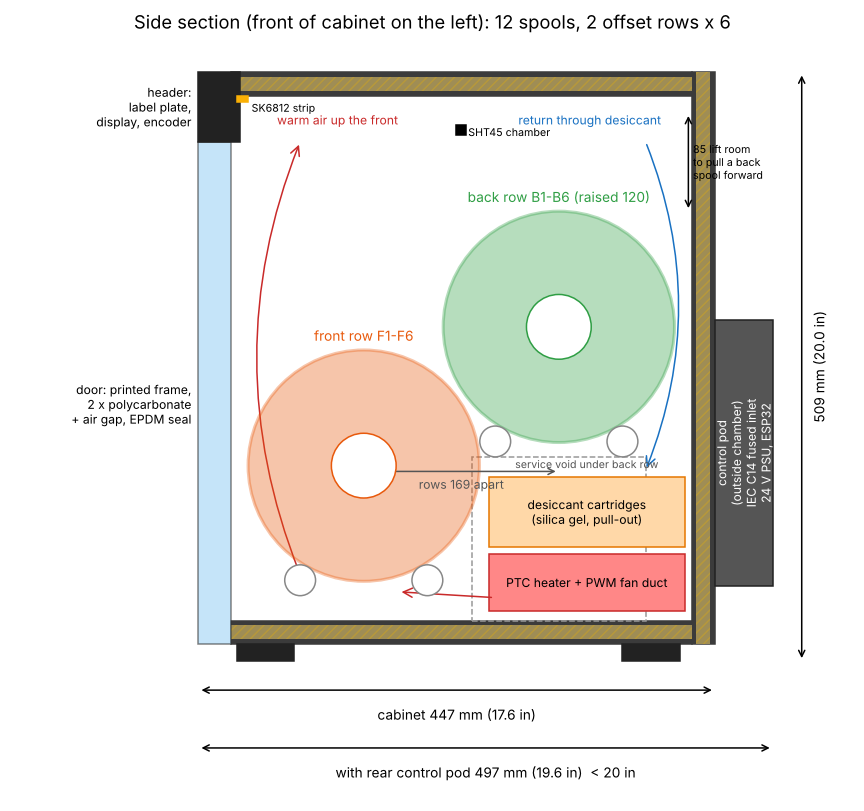
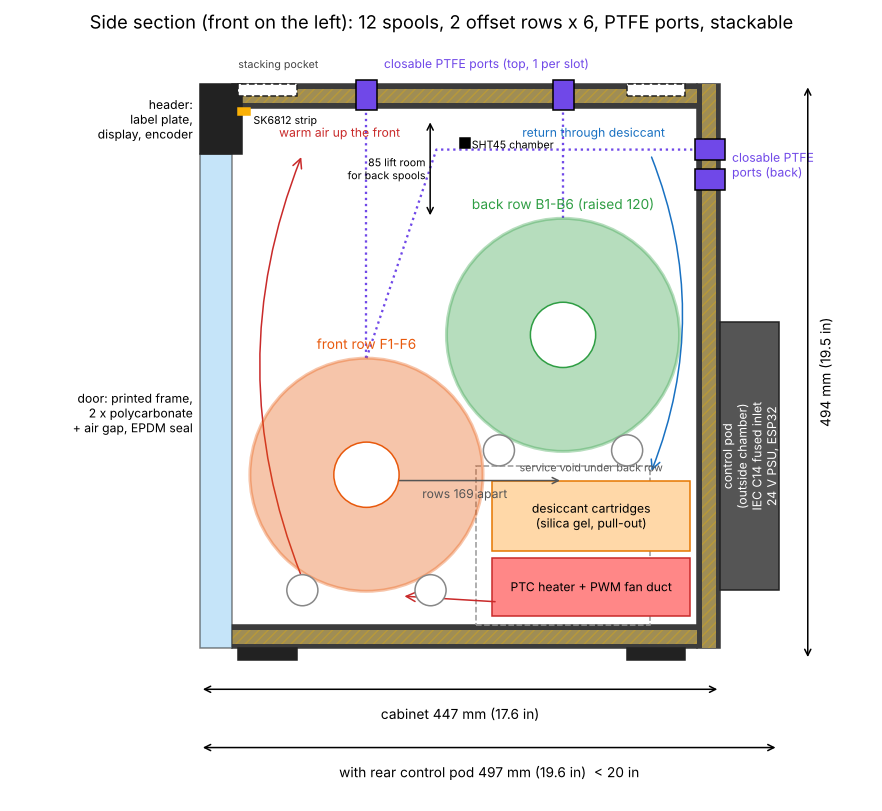
Filament dry cabinet spec v0.2: PTFE ports, stacking, 19.5 in height, ABS/ASA, 120 V
Claude-Session: https://claude.ai/code/session_01Fr6xhM7DESu9XfqMuZQkwi

Changed region(s): [[0.0938, 0.0, 0.9688, 0.9864], [0.5938, 0.3391, 0.6875, 0.4624]]

diff --git a/models/filament-dry-cabinet/source/draw.py b/models/filament-dry-cabinet/source/draw.py
@@ -56,13 +56,28 @@ ax.add_patch(FancyArrowPatch((60, 40), (60, IH-40), connectionstyle='arc3,rad=-0
 ax.add_patch(FancyArrowPatch((ID-40, IH-40), (ID-40, 130), connectionstyle='arc3,rad=-0.2', arrowstyle='->', mutation_scale=15, color='#1971c2'))
 ax.text(40, IH-25, 'warm air up the front', fontsize=8, color='#c92a2a')
 ax.text(ID-150, IH-25, 'return through desiccant', fontsize=8, color='#1971c2')
+# closable PTFE ports: top (one per slot) and back (above the control pod)
+PORT='#7048e8'
+for yp in (A['y_front'], A['y_back']):
+    ax.add_patch(Rectangle((yp-9, IH-2), 18, T+6, facecolor=PORT, edgecolor='k', zorder=7))
+    ax.plot([yp, yp], [A['cf']+R if yp==A['y_front'] else A['cb']+R, IH-2], ls=':', color=PORT, lw=1.5)
+for zp in (IH-62, IH-36):
+    ax.add_patch(Rectangle((ID-2, zp-9), T+6, 18, facecolor=PORT, edgecolor='k', zorder=7))
+ax.plot([A['y_front'], A['y_front']+60, ID-2], [A['cf']+R, IH-36, IH-36], ls=':', color=PORT, lw=1.5)
+ax.text(A['y_front']+15, IH+T+14, 'closable PTFE ports (top, 1 per slot)', color=PORT, fontsize=8)
+ax.text(ID+T+10, IH-49, 'closable PTFE\nports (back)', color=PORT, fontsize=8, va='center')
+# stacking: pockets in the roof that take the next cabinet's feet
+for yy in (5, ID-60):
+    ax.add_patch(Rectangle((yy, IH+T-FEET), 50, FEET, facecolor='white', edgecolor='#222', ls='--'))
+ax.text(5, IH+T+14, 'stacking pocket', fontsize=7, color='#444')
 # LED strip
 ax.add_patch(Rectangle((5, IH-6), 10, 6, color='#fab005', zorder=6)); ax.text(18, IH-14, 'SK6812 strip', fontsize=7)
 # sensors
 ax.plot([ID/2], [IH-30], 'ks'); ax.text(ID/2+6, IH-35, 'SHT45 chamber', fontsize=7)
 # lift clearance
-ax.annotate('', xy=(A['y_back']+R+12, A['top_back']+A['lift']), xytext=(A['y_back']+R+12, A['top_back']), arrowprops=dict(arrowstyle='<->'))
-ax.text(A['y_back']+R+16, A['top_back']+A['lift']/2, f"{A['lift']:.0f} lift room\nto pull a back\nspool forward", fontsize=7, va='center')
+xl = A['y_back'] - R - 14
+ax.annotate('', xy=(xl, A['top_back']+A['lift']), xytext=(xl, A['top_back']), arrowprops=dict(arrowstyle='<->'))
+ax.text(xl-4, A['top_back']+A['lift']/2, f"{A['lift']:.0f} lift room\nfor back spools", fontsize=7, va='center', ha='right')
 # dimensions
 def dim(p0, p1, txt, off, horiz=True):
     if horiz:
@@ -76,9 +91,9 @@ dim(-DOOR, ID+T+POD, f"with rear control pod {A['ed']+POD:.0f} mm ({(A['ed']+POD
 dim(-T-FEET, IH+T, f"{A['eh']:.0f} mm ({A['eh']/IN:.1f} in)", ID+T+POD+25, horiz=False)
 ax.annotate('', xy=(A['y_back'], A['cb']-R-25), xytext=(A['y_front'], A['cb']-R-25), arrowprops=dict(arrowstyle='<->', color='#555'))
 ax.text((A['y_front']+A['y_back'])/2, A['cb']-R-40, f"rows {A['d']:.0f} apart", ha='center', fontsize=8, color='#555')
-ax.set_xlim(-190, ID+T+POD+70); ax.set_ylim(-T-FEET-120, IH+T+30)
+ax.set_xlim(-190, ID+T+POD+80); ax.set_ylim(-T-FEET-120, IH+T+40)
 ax.set_aspect('equal'); ax.axis('off')
-ax.set_title('Side section (front of cabinet on the left): 12 spools, 2 offset rows x 6', fontsize=12)
+ax.set_title('Side section (front on the left): 12 spools, 2 offset rows x 6, PTFE ports, stackable', fontsize=12)
 plt.savefig('layout_side.png', dpi=110, bbox_inches='tight')
 
 # ---------------- front view ----------------

diff --git a/models/filament-dry-cabinet/source/layout.py b/models/filament-dry-cabinet/source/layout.py
@@ -14,7 +14,7 @@ C_ABOVE_RODS = math.sqrt((R + ROD_OD/2)**2 - (ROD_CC/2)**2)
 # shell
 WALL = 20.0                             # printed tile + 1/2 in XPS foam
 DOOR = 28.0                             # door frame with twin-wall polycarbonate
-FEET = 15.0
+FEET = 10.0                             # stacking feet (nest into the cabinet below)
 CLR = 15.0                              # clearance spool <-> wall/door
 
 def stadium(n_across, h_offset, lift_access=True):
@@ -22,13 +22,13 @@ def stadium(n_across, h_offset, lift_access=True):
     d = math.sqrt((SPOOL_D + SPOOL_CLR)**2 - h_offset**2) if h_offset < SPOOL_D + SPOOL_CLR else 0
     iw = n_across * PITCH + 2 * 10
     idepth = CLR + R + d + R + CLR
-    rod_z_front = 35.0                  # rod centre above floor
+    rod_z_front = 30.0                  # rod centre above floor
     cf = rod_z_front + C_ABOVE_RODS     # front spool centre
     cb = cf + h_offset
     top_back = cb + R
     top_front = cf + R
     lift = max(0.0, (top_front + 5) - (cb - R)) if lift_access else 0.0
-    ih = top_back + lift + 15
+    ih = top_back + lift + 10
     ew, ed, eh = iw + 2*WALL, idepth + WALL + DOOR, ih + 2*WALL + FEET
     return dict(n=2*n_across, iw=iw, idepth=idepth, ih=ih, ew=ew, ed=ed, eh=eh,
                 d=d, cf=cf, cb=cb, rod_front=rod_z_front, rod_back=rod_z_front+h_offset,

diff --git a/models/filament-dry-cabinet/DESIGN.md b/models/filament-dry-cabinet/DESIGN.md
@@ -1,6 +1,6 @@
-# Filament Dry Cabinet: Design Spec (v0.1)
+# Filament Dry Cabinet: Design Spec (v0.2)
 
-This spec is for review before any CAD. It sets the layout, construction, electronics, ESPHome control and the Spoolman slot scheme for **one cabinet**. You'll build **one cabinet per material family**: PLA, PETG, ABS/ASA, and so on.
+This spec is for review before any CAD. v0.2 includes your answers to the open questions (§10). It sets the layout, construction, electronics, ESPHome control and the Spoolman slot scheme for **one cabinet**. You'll build **one cabinet per material family**: PLA, PETG, ABS/ASA, and so on.
 
 ## 1. Requirements
 
@@ -12,15 +12,18 @@ This spec is for review before any CAD. It sets the layout, construction, electr
 | R4 | ESPHome (ESP32) with local controls and status | ESP32-S3, a **2.0 in TFT and rotary encoder** for setpoints, plus the HA API and a local web page (§6, §7) |
 | R5 | SK6812 LED lighting | **SK6812 RGBW** strip under the front header, 5 LEDs per slot, so it can **light up a single slot** (§6.4) |
 | R6 | Front label plate, and an index position for each spool that Spoolman can manage | Swappable **material label plate** in the header. **Slot IDs F1–F6 and B1–B6** on index collars and the door rail (§8). |
-| R7 | **≤ 20 in (508 mm) deep** for standard shelves | **447 mm (17.6 in)** cabinet, **497 mm (19.6 in)** with the rear control pod, using offset-height rows (§3) |
+| R7 | **≤ 20 in (508 mm) deep** for standard shelves, **≤ 20 in shelf spacing** | **447 mm (17.6 in)** cabinet, **497 mm (19.6 in)** with the rear control pod, using offset-height rows. **494 mm (19.5 in) tall.** (§3) |
 | R8 | IEC 320 C14 fused inlet | **Fused and switched C14 module** in the rear control pod (§6.1) |
 | R9 | About 12 spools | **12 × 1 kg spools** (200 mm across, up to 75 mm wide) |
+| R10 | PTFE feed ports that can be closed off, on the **top and back** | **12 top ports** (one per slot) and **12 back ports**, all using one plug-in **port module**: PTFE or sealed blank (§4.6) |
+| R11 | Stackable | Feet nest into **pockets in the cabinet below**, with optional side links (§4.7) |
+| R12 | 120 V mains only | Inlet, fuse and PSU are specified for 120 V (§6.1) |
 
 ## 2. Concept
 
 ![Concept](images/concept.jpg)
 
-## 3. Layout (recommended: one level, two offset rows of six)
+## 3. Layout (chosen: one level, two offset rows of six)
 
 ![Side section](images/layout_side.png)
 
@@ -28,9 +31,9 @@ This spec is for review before any CAD. It sets the layout, construction, electr
 
 **Spools roll on two PVC rods per row**, with their axles running side to side, so their faces point out the door like in the concept picture. Two rods 110 mm apart put a 200 mm spool's centre **99 mm above the rod centres**.
 
-**The back row is raised 120 mm.** This lets the two rows overlap in depth (centres 169 mm apart instead of 207 mm). The back spools show above the front ones, so you can read them through the door. It also leaves a **service void under the back row, about 184 × 142 × 500 mm**, which holds the heater, fan duct and desiccant cartridges without adding any height.
+**The back row is raised 120 mm.** This lets the two rows overlap in depth (centres 169 mm apart instead of 207 mm). The back spools show above the front ones, so you can read them through the door. It also leaves a **service void under the back row, about 184 × 142 × 500 mm**, which holds the heater, fan duct and desiccant cartridges without adding any height. In v0.2 the front rods sit 30 mm above the floor, so the void is 137 mm tall.
 
-**There's 85 mm of lift room above the back row**, so you can lift a back spool up and over the front spool to take it out. Dropping that lift room saves 85 mm of height (cabinet 424 mm / 16.7 in tall), but then you'd take out the front spool to reach the one behind it.
+**There's 85 mm of lift room above the back row**, so you can lift a back spool up and over the front spool to take it out. **Kept in v0.2**, since your shelves allow 20 in. Without it, the cabinet would be 409 mm / 16.1 in tall.
 
 ### Overall size (recommended layout A)
 
@@ -39,16 +42,17 @@ This spec is for review before any CAD. It sets the layout, construction, electr
 | Width | 540 | 21.3 |
 | Depth (cabinet) | 447 | 17.6 |
 | Depth with the rear control pod | 497 | **19.6 (< 20)** |
-| Height (with 15 mm feet) | 509 | 20.0 |
-| Interior (W × D × H) | 500 × 399 × 454 | 19.7 × 15.7 × 17.9 |
+| Height (with 10 mm stacking feet) | **494** | **19.5** |
+| Height per cabinet when stacked (feet nest into the pockets) | 484 | 19.1 |
+| Interior (W × D × H) | 500 × 399 × 444 | 19.7 × 15.7 × 17.5 |
 
 ### Layout options considered (all 12 spools)
 
 | Option | Arrangement | W × D × H (in) | Notes |
 |---|---|---|---|
-| **A (recommended)** | 1 level, 2 offset rows × 6 | **21.3 × 17.6 (19.6 with pod) × 20.0** | Uses the full shelf depth. Low enough to fit under typical shelf spacing. Dead space houses the heater and desiccant. |
-| B | 2 levels × (2 offset rows × 3) | 11.8 × 17.6 × 37.9 | Narrow but very tall. Won't fit between most shelves. |
-| C | 3 levels × 4, single row | 15.0 × 10.9 × 31.3 | Shallow and tall. Wastes half the shelf depth. |
+| **A (chosen)** | 1 level, 2 offset rows × 6 | **21.3 × 17.6 (19.6 with pod) × 19.5** | Uses the full shelf depth. Low enough to fit under typical shelf spacing. Dead space houses the heater and desiccant. |
+| B | 2 levels × (2 offset rows × 3) | 11.8 × 17.6 × 36.9 | Narrow but very tall. Won't fit between most shelves. |
+| C | 3 levels × 4, single row | 15.0 × 10.9 × 31.1 | Shallow and tall. Wastes half the shelf depth. |
 
 `source/layout.py` recalculates all of this. Change the spool size, rod size or offset and rerun it.
 
@@ -58,8 +62,8 @@ This spec is for review before any CAD. It sets the layout, construction, electr
 - **Walls are 20 mm thick:** a printed tile tray (2 mm skin plus edge ribs) holding **1/2 in XPS foam board** (hardware store), with the inside faced in **aluminium foil tape**. The foil works as a vapour barrier and reflects heat back in.
 - **Tiles are ≤ 330 × 330 mm** (350 mm bed). Each face is a 2 × 2 grid of tiles: sides, top, bottom and back, about 20 tiles in all, plus a front frame and corner posts.
 - **Tiles join** with tongue-and-groove edges, **M4 heat-set inserts and bolts**, and foam tape in the seams. You could swap a side tile later for one with a pass-through port or a window.
-- **Material:** **ASA** for everything near the heater and for cabinets that run hotter than 50 °C. PETG is fine for the shell of a PLA or PETG cabinet. **No PLA in the structure**, since it softens at about 55 °C.
-- **Feet:** printed, 15 mm tall, with recesses so cabinets can **stack** (to be confirmed, §10).
+- **Material: ABS or ASA for every printed part** (your choice, v0.2). That gives every cabinet the same parts and lets any cabinet run up to 60 °C. ASA is better for parts that get sunlight or UV.
+- **Feet:** printed, 10 mm tall, and they **nest into pockets in the top of the cabinet below** (§4.7).
 
 ### 4.2 Door
 - A printed frame with **two panes of clear polycarbonate** (hardware-store "Lexan", 2–2.5 mm) and a 6 mm air gap. That insulates about twice as well as one pane, and stops condensation on the glass.
@@ -81,13 +85,38 @@ This spec is for review before any CAD. It sets the layout, construction, electr
 - Wires pass into the chamber through a sealed gland.
 - A removable back cover gives access, with ventilation slots for the PSU.
 
+### 4.6 Closable PTFE ports (top and back)
+
+**One port design is used everywhere.** Each tile gets a threaded **port socket**, a printed sleeve through the wall. A plug-in **port module** screws into the socket, sealed with an **O-ring**. The module comes in three versions:
+
+| Module | Use |
+|---|---|
+| **PTFE pass-through** | **PC4-M10 push-fit coupler** on the outside for the 4 mm OD PTFE tube to the printer. Inside, a short PTFE guide tube runs toward the spool. |
+| **Blank plug** | Seals any unused socket. It's the default in every socket. |
+| **Feed cap** | Push-fit cap over the coupler for when the tube is disconnected but you want to keep the PTFE routing |
+
+**Port positions:**
+- **Top: 12 ports, one per slot.** They sit straight above each spool, at the front-row and back-row lines (§3 drawing). Filament comes off the top of the spool straight up.
+- **Back: 12 ports in two staggered rows**, high on the back wall above the control pod. Guide tubes inside run up over the back row and down to each slot. **Use the back ports when cabinets are stacked**, since the cabinet above covers the top ports.
+
+**Seal:** an O-ring on each module plus foam tape around the socket sleeve, so a closed port seals as well as the rest of the wall.
+
+**Socket size:** about M20 × 2 printed thread, with a 16 × 2 mm O-ring. This will be finalised in CAD after a fit test with a printed coupon, the same approach used for the dragon egg socket.
+
+### 4.7 Stacking
+
+- **Feet nest into pockets:** each cabinet has four 10 mm feet that drop into matching **pockets in the roof** of the cabinet below. That keeps them aligned and stops them sliding.
+- **Optional side links:** printed **link plates** bolt across the seam on each side, so a stack can't tip.
+- **Limits:** stacks of **2, or 3 at most**. A loaded cabinet weighs roughly 12 kg of spools plus the cabinet itself, so the roof tiles get extra ribs around the pockets.
+- **Power and ports:** every cabinet has its own inlet and controller. Stacking doesn't block the rear pods or the back ports.
+
 ## 5. Drying system
 
 **How it works:** warm air holds the same amount of water at a much lower relative humidity, and warm plastic gives up moisture. The heater warms the chamber gently, and the **fan pulls chamber air down through the desiccant cartridges and over the PTC heater**. Warm, dry air leaves along the floor at the front, rises up the inside of the door, which also keeps the door glass clear, and returns down the back through the desiccant. Moisture driven out of the spools ends up in the silica gel, not back in the filament.
 
 | Item | Spec |
 |---|---|
-| Heater | **24 V PTC element with fins**, 100 W (PLA/PETG) or 150 W (ABS/ASA/nylon), in a printed **ASA** duct on standoffs |
+| Heater | **24 V PTC element with fins**, 100 W (PLA/PETG/TPU cabinets) or 150 W (ABS/ASA/nylon), in a printed **ABS/ASA** duct on standoffs |
 | Fan | 24 V **4-pin PWM** fan (60–80 mm) with tach, so the firmware can tell if it stops |
 | Desiccant | **2 pull-out cartridges, about 300–400 g of orange indicating silica gel each**. They sit in the return-air path in the service void. |
 | Recharging | Empty the gel into a metal tray and dry it in an oven at the temperature on the gel's packaging. **The printed cartridges can't go in the oven.** Firmware counts the days since the last recharge, and watches for absolute humidity creeping up. |
@@ -99,9 +128,9 @@ This spec is for review before any CAD. It sets the layout, construction, electr
 |---|---|---|---|
 | PLA / PLA+ / silk | 40 °C | ≤ 30 % | Never above 45 °C |
 | PETG / PCTG | 50 °C | ≤ 20 % | |
-| ABS / ASA | 55 °C | ≤ 20 % | ASA shell required |
+| ABS / ASA | 55 °C | ≤ 20 % | |
 | TPU | 40 °C | ≤ 20 % | |
-| Nylon / PC / CF blends | 60 °C | ≤ 10–15 % | ASA shell, 150 W heater, extra desiccant |
+| Nylon / PC / CF blends | 60 °C | ≤ 10–15 % | 150 W heater, extra desiccant |
 
 There's also a **"Dry" mode** that runs a timed cycle at the cabinet's maximum temperature, such as 6 h at 50 °C for PETG. It's a top-up, not a replacement for a proper filament dryer.
 
@@ -110,7 +139,8 @@ There's also a **"Dry" mode** that runs a timed cycle at the cabinet's maximum t
 ![Electrical block diagram](images/wiring.png)
 
 ### 6.1 Power
-- **Inlet:** IEC 320 C14 panel module with a **fuse holder and switch** (5 × 20 mm, **3.15 A T** slow-blow at 120 V). Earth (PE) goes to the PSU's FG terminal and to any metal parts. Use 18 AWG wire with ferrules, plus strain relief. The module snaps into a printed cutout, sized from the datasheet of the exact part you buy.
+- **Mains: 120 V only.**
+- **Inlet:** a UL-recognised IEC 320 C14 panel module with a **fuse holder and switch** (5 × 20 mm, **3.15 A T** slow-blow, 250 V rated). Earth (PE) goes to the PSU's FG terminal and to any metal parts. Use 18 AWG wire with ferrules, plus strain relief. The module snaps into a printed cutout, sized from the datasheet of the exact part you buy.
 - **PSU:** **Mean Well LRS-200-24** (24 V, 8.8 A) in its enclosed metal case. The LRS-150-24 (6.5 A) is enough if every cabinet uses the 100 W heater.
 - **5 V:** a 24 → 5 V buck converter (3–5 A) for the LEDs, display and ESP32. The LED feed has its own 3 A fuse.
 
@@ -188,6 +218,8 @@ There's also a **"Dry" mode** that runs a timed cycle at the cabinet's maximum t
 
 **Hardware store**
 - 3/4 in Sch 40 PVC pipe, about 2 m (4 rods × 498 mm)
+- 24 × PC4-M10 push-fit couplers (only as many as you'll use) + 4 mm OD PTFE tube
+- 16 × 2 mm nitrile O-rings (one per port module)
 - 1/2 in XPS foam board (one 2 × 4 ft sheet covers it)
 - Clear polycarbonate sheet, 2–2.5 mm, 2 panes about 510 × 400 mm
 - EPDM foam weatherstrip, about 2 m
@@ -210,24 +242,29 @@ There's also a **"Dry" mode** that runs a timed cycle at the cabinet's maximum t
 
 **Consumables**
 - Orange indicating silica gel, about 1 kg
-- ASA filament for the duct, pod and hot parts, and PETG or ASA for the tiles
+- ABS or ASA filament for all printed parts
 
-## 10. Open questions for you
+## 10. Decisions (v0.2)
 
-1. **Layout A** (21.3 W × 19.6 D × 20.0 H in): does it fit your shelves? What's the **clear height** between shelves?
-2. **Lift room:** keep the 85 mm so you can lift back spools out (20.0 in tall), or drop it to 16.7 in tall and remove the front spool first?
-3. **PTFE pass-through ports** in a side tile, so a printer can feed straight from a cabinet slot?
-4. **Stackable** cabinets (interlocking feet and top)?
-5. **UI:** 2.0 in TFT + encoder, or a touchscreen?
-6. **Mains:** 120 V only? This affects the fuse rating.
-7. **Which cabinets first?** This sets the heater size (100 W vs 150 W) and shell material (PETG vs ASA).
+| Question | Decision |
+|---|---|
+| Shelf height | 20 in shelves. **Keep the lift room**, and the cabinet is **19.5 in tall** after trimming the feet, cradles and top clearance. |
+| PTFE ports | **Yes, top and back, closable:** one port module design with PTFE, blank and cap versions (§4.6) |
+| Stacking | **Yes:** nesting feet and pockets, plus optional side links (§4.7) |
+| UI | **2.0 in TFT + encoder** |
+| Mains | **120 V only** |
+| Shell material | **ABS or ASA** for all printed parts |
+
+Still open (not blocking CAD):
+- **Which material cabinet to build first?** This only changes the heater size (100 W or 150 W) and the label plate.
+- **Port socket thread:** this will be confirmed with a fit-test print.
 
 ## 11. Plan
 
 | Phase | Deliverable |
 |---|---|
 | **1 (this)** | Design spec, layout, electrical plan, BOM |
-| 2 | CAD: tiles, corner posts, front frame, door, hinges, rod cradles and risers, index collars, label plate, header with display, heater duct, desiccant cartridges, rear pod. STEP and STL. |
+| 2 | CAD: tiles, corner posts, front frame, door, hinges, rod cradles and risers, index collars, label plate, header with display, heater duct, desiccant cartridges, rear pod, **port sockets and modules with a fit-test coupon**, **stacking feet, pockets and links**. STEP and STL. |
 | 3 | ESPHome YAML, pin map and wiring diagram |
 | 4 | Prototype: one cabinet. Test the fit, the heat-up and holding RH. |
 | 5 | Home Assistant and Spoolman: slot lighting, dashboards, desiccant alerts |

diff --git a/models/filament-dry-cabinet/README.md b/models/filament-dry-cabinet/README.md
@@ -2,17 +2,17 @@
 title: Filament Dry Cabinet
 category: Storage
 status: Design
-material: ASA / PETG
+material: ABS / ASA
 printer: Voron 2.4 R2 350
-tags: [filament, dry-box, dehumidifier, esphome, esp32, sk6812, spoolman, pvc, modular]
-summary: Modular, heated, desiccant-dried 12-spool cabinet (one per material), with ESPHome control, SK6812 lighting and Spoolman slot IDs. Under 20 in deep.
+tags: [filament, dry-box, dehumidifier, esphome, esp32, sk6812, spoolman, pvc, modular, stackable, ptfe]
+summary: Modular, stackable, heated and desiccant-dried 12-spool cabinet (one per material). ESPHome control, SK6812 lighting, closable PTFE ports and Spoolman slot IDs. Under 20 in deep and tall.
 ---
 
 # Filament Dry Cabinet
 
 ![Side section](images/layout_side.png)
 
-A modular cabinet that stores **12 × 1 kg spools** and keeps them dry. A low-voltage **PTC heater** circulates warm air through **pull-out silica gel cartridges**. An **ESP32 running ESPHome** controls it, with a local display and knob for setpoints, and integrates with Home Assistant. **SK6812** lighting can highlight individual slots. Each spool position has an ID (`PETG-F3`, for example) for Spoolman's Location field. You'll build **one cabinet per material**. It plugs in through an **IEC C14 fused inlet**, and at **19.6 in deep** it fits standard shelves.
+A modular cabinet that stores **12 × 1 kg spools** and keeps them dry. A low-voltage **PTC heater** circulates warm air through **pull-out silica gel cartridges**. An **ESP32 running ESPHome** controls it, with a local display and knob for setpoints, and integrates with Home Assistant. **SK6812** lighting can highlight individual slots. Each spool position has an ID (`PETG-F3`, for example) for Spoolman's Location field. You'll build **one cabinet per material**. It plugs in through an **IEC C14 fused inlet** (120 V). At **19.6 in deep and 19.5 in tall**, it fits standard 20 in shelves. Cabinets **stack**, and **closable PTFE ports** on the top and back can feed a printer straight from any slot.
 
 **Status: design spec for review. No CAD yet.** See **[DESIGN.md](DESIGN.md)** for the full spec.
 
@@ -23,12 +23,14 @@ A modular cabinet that stores **12 × 1 kg spools** and keeps them dry. A low-vo
 | | |
 |---|---|
 | Capacity | 12 spools: two rows of 6, with the back row raised 120 mm |
-| Size | 540 W × 447 D (497 with rear control pod) × 509 H mm (21.3 × 17.6 / 19.6 × 20.0 in) |
+| Size | 540 W × 447 D (497 with rear control pod) × 494 H mm (21.3 × 17.6 / 19.6 × 19.5 in) |
 | Shelves | 3/4 in Sch 40 PVC rods in printed cradles, with printed index collars every 80 mm |
-| Shell | Printed tile panels (≤ 330 mm) with 1/2 in XPS foam, and a twin-pane polycarbonate door |
+| Shell | Printed ABS/ASA tile panels (≤ 330 mm) with 1/2 in XPS foam, and a twin-pane polycarbonate door |
+| PTFE ports | 12 on top (one per slot) + 12 on the back. Each one takes a PTFE pass-through module (PC4-M10) or a sealed blank plug. |
+| Stacking | Feet nest into pockets in the cabinet below, with optional side links. Stacks of 2–3. |
 | Drying | 24 V PTC heater (100/150 W) + PWM fan + about 700 g of silica gel |
 | Control | ESP32-S3, SHT45/SHT40, 2.0 in TFT + encoder, ESPHome |
-| Power | IEC C14 fused and switched inlet → Mean Well 24 V PSU in a rear pod outside the chamber |
+| Power | 120 V IEC C14 fused and switched inlet → Mean Well 24 V PSU in a rear pod outside the chamber |
 | Safety | Hardware thermal cutouts (85 °C auto-reset + 102 °C fuse) and firmware interlocks |
 
 ## Files
@@ -42,4 +44,5 @@ A modular cabinet that stores **12 × 1 kg spools** and keeps them dry. A low-vo
 
 ## Revision History
 
+- **v0.2** (2026-11-22): decisions added: 20 in shelves (cabinet 19.5 in tall, lift room kept), closable PTFE ports on the top and back, stacking, 2.0 in TFT, 120 V only, ABS/ASA shell.
 - **v0.1** (2026-11-22): first design spec and layout for review.

diff --git a/README.md b/README.md
@@ -42,7 +42,7 @@ A collection of 3D printable models — source files, print-ready files, and pri
 
 | Model | Description | Material | Status | Tags |
 |-------|-------------|----------|--------|------|
-| [Filament Dry Cabinet](models/filament-dry-cabinet/README.md) | Modular, heated, desiccant-dried 12-spool cabinet (one per material), with ESPHome control, SK6812 lighting and Spoolman slot IDs. Under 20 in deep. | ASA / PETG | Design | `filament` `dry-box` `dehumidifier` `esphome` `esp32` `sk6812` `spoolman` `pvc` `modular` |
+| [Filament Dry Cabinet](models/filament-dry-cabinet/README.md) | Modular, stackable, heated and desiccant-dried 12-spool cabinet (one per material). ESPHome control, SK6812 lighting, closable PTFE ports and Spoolman slot IDs. Under 20 in deep and tall. | ABS / ASA | Design | `filament` `dry-box` `dehumidifier` `esphome` `esp32` `sk6812` `spoolman` `pvc` `modular` `stackable` `ptfe` |
 <!-- INDEX:END -->
 
 ## Repository Layout
